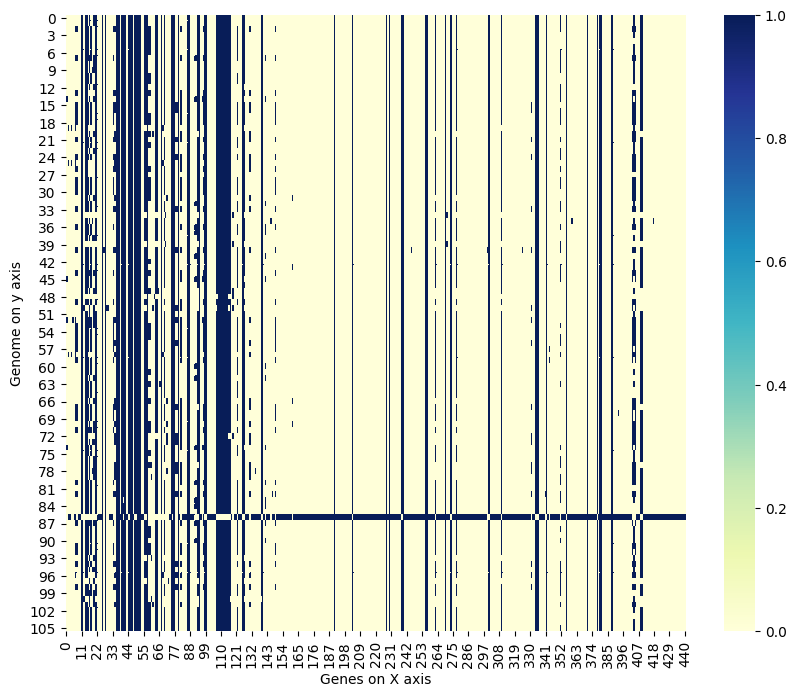
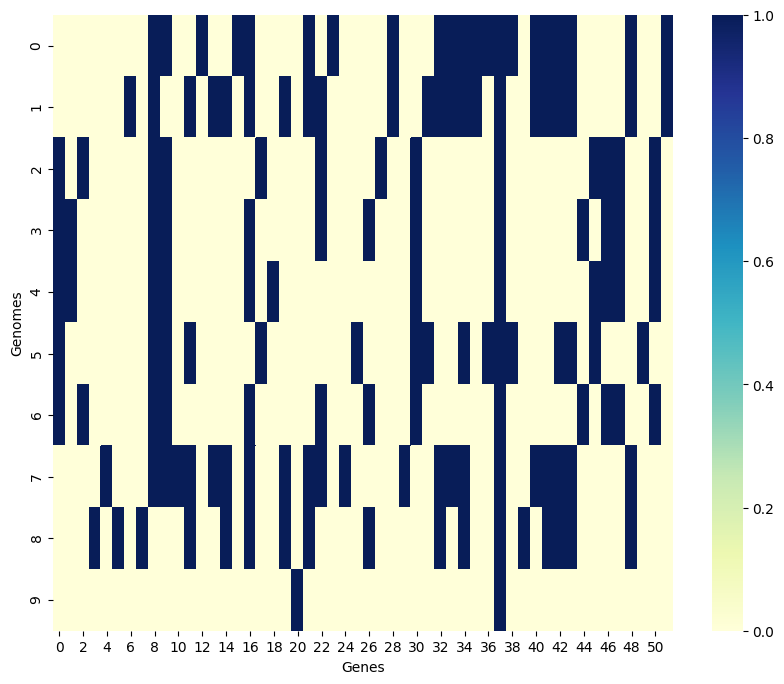
Made changes in reading dataset and changes in plots

diff --git a/crosstab/functions.py b/crosstab/functions.py
@@ -8,20 +8,20 @@ class CrossTab:
         self.filepath = filepath
     def prepare_dataset(self):
         self.dataframe = pd.read_csv(self.filepath)
-        self.dataframe = pd.concat([self.dataframe["Genome"], self.dataframe["Gene"]], axis=1)
+        self.dataframe = self.dataframe[["Genome", "Gene"]]
+        self.dataframe = (self.dataframe.apply(lambda x: x.str.split(',').explode()).reset_index()).drop("index", axis=1)
         self.dataframe = self.dataframe.dropna(axis=0)
         self.dataframe = self.dataframe.drop_duplicates()
     def corsstab(self):
         self.corsstab = pd.crosstab(self.dataframe["Genome"], self.dataframe["Gene"])
-        # self.corsstab.to_csv("./static/files/crosstab.csv")
         self.corsstab.to_csv("./cgenomicstool/static/files/crosstab.csv")
     def heatmap(self):
         self.values = self.corsstab.iloc[:, :].values
         plt.switch_backend("AGG")
         plt.figure(figsize=(10,8))
         sns.heatmap(self.values, vmin=0, vmax=1, cmap="YlGnBu")
-        plt.xlabel("Genes on X axis")
-        plt.ylabel("Genome on y axis")
+        plt.xlabel("Genes")
+        plt.ylabel("Genomes")
         # plt.savefig("./static/img/crosstab.png", bbox_inches = 'tight')
         plt.savefig("./cgenomicstool/static/img/crosstab.png", bbox_inches = 'tight')
 

diff --git a/crosstab/handlers.py b/crosstab/handlers.py
@@ -9,18 +9,11 @@ class CrossTabHandler:
         CT.heatmap()
 
 class GeneAndGenomeHandler:
-    # def __init__(self):
-    #     GG = GeneAndGenome()
-    #     GG.read_crosstab()
-    #     GG.crosstab_gene_vs_genome()
-    #     self.crosstab_gene, self.crosstab_genome, self.crosstab_gene_vs_genome = GG.get_data()
     def __new__(cls):
         GG = GeneAndGenome()
         GG.read_crosstab()
         return GG.get_data()
 
-
-# self.crosstab_gene, self.crosstab_genome, self.crosstab_gene_vs_genome = 
 
 def genereate_id():
     return "crosstab-R"+datetime.now().strftime("%Y%m%d-%H%M%S-")+str(datetime.now().timestamp()).replace('.', '-')
